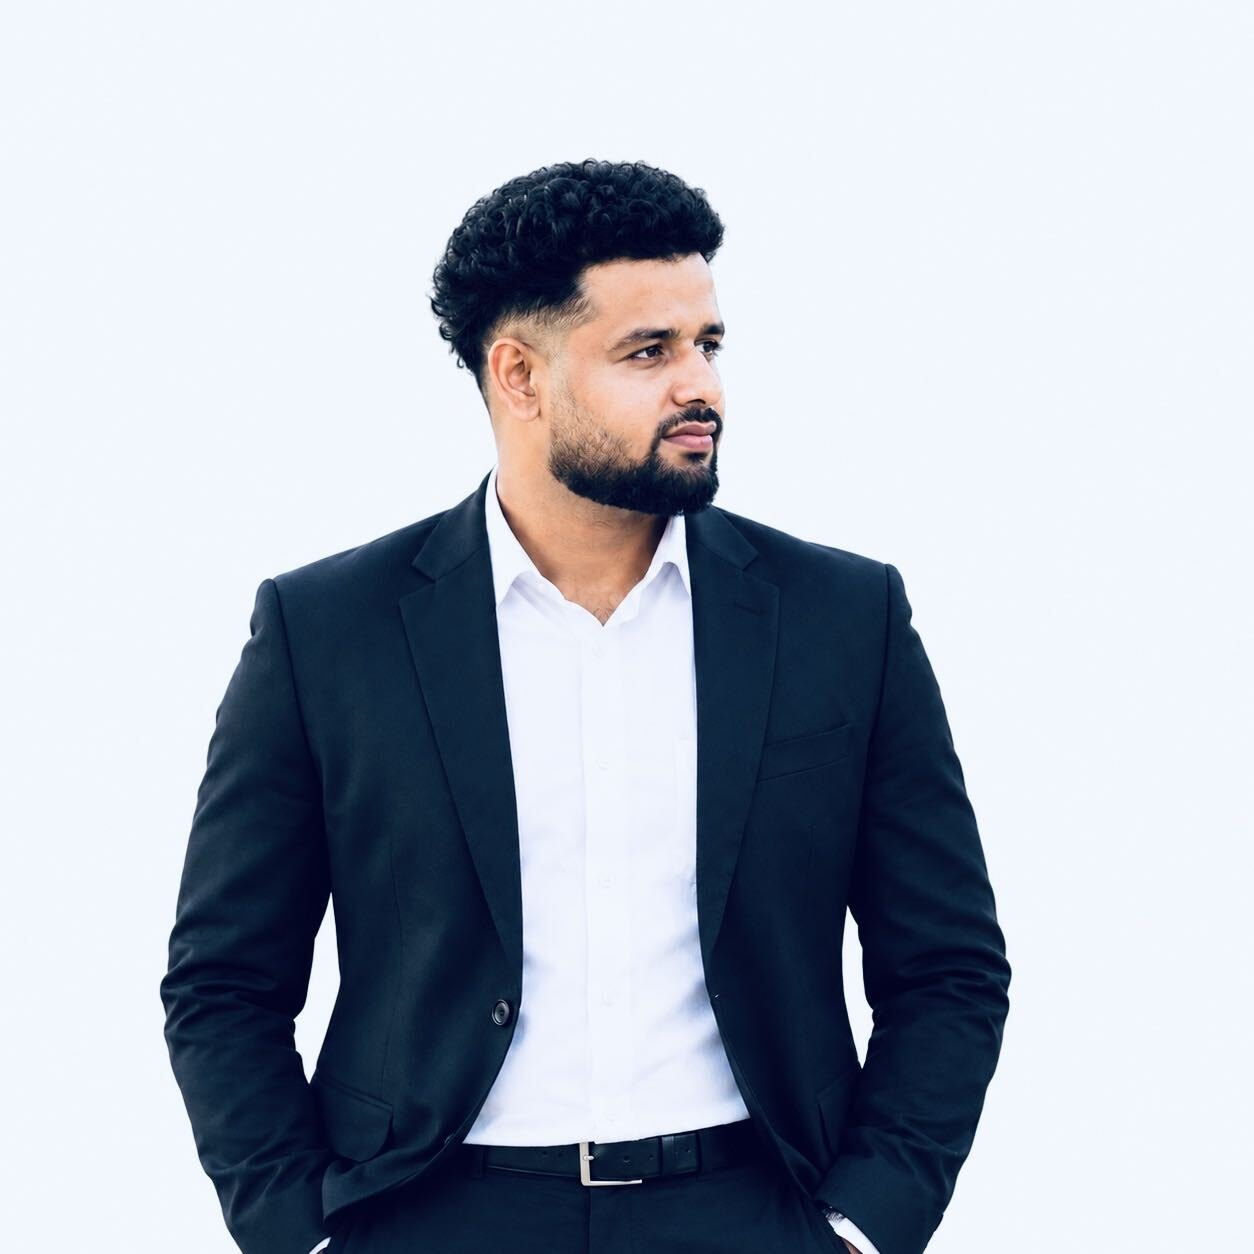
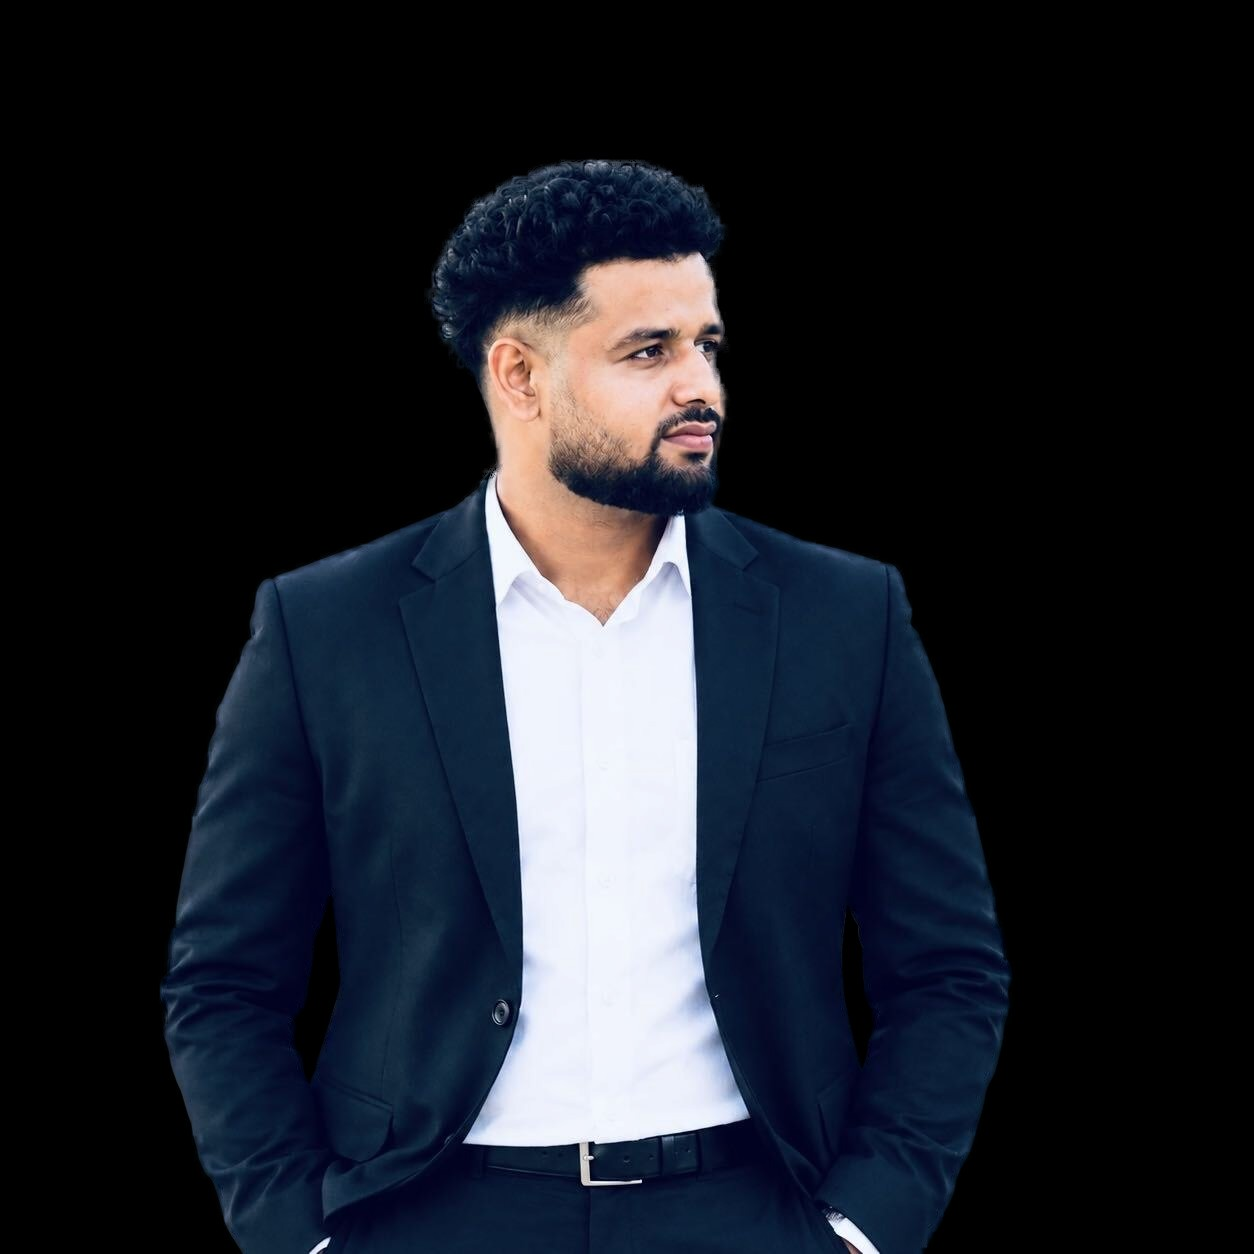
Put profile photo on a black background

diff --git a/index.html b/index.html
@@ -62,7 +62,7 @@ section+section{border-top:1px solid rgba(255,255,255,.08)}
 .readout b{font-stretch:62%;font-weight:800;font-size:32px;line-height:1}
 .readout span{font-family:var(--mono);font-size:10.5px;letter-spacing:.06em;text-transform:uppercase;color:var(--on-dark-muted)}
 .feed{position:relative;justify-self:end;width:100%;max-width:360px}
-.feed .frame{position:relative;aspect-ratio:4/5;overflow:hidden;background:#dfe3e6;border:1px solid rgba(255,255,255,.2)}
+.feed .frame{position:relative;aspect-ratio:4/5;overflow:hidden;background:#000;border:1px solid rgba(255,255,255,.2)}
 .feed img{width:100%;height:100%;object-fit:cover;object-position:50% 12%;filter:grayscale(1) contrast(1.1) brightness(.9);display:block}
 .feed .shatter{position:absolute;inset:0;width:100%;height:100%;display:block}
 .feed .frame.live img{visibility:hidden}
